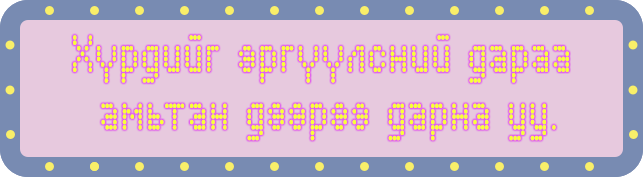
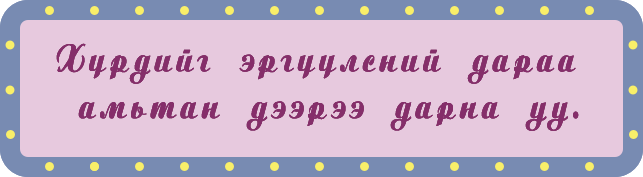
Add files via upload

Changed region(s): [[0.0622, 0.1695, 0.902, 0.4802], [0.1244, 0.565, 0.902, 0.8192]]

diff --git a/smoke.css b/smoke.css
@@ -1,18 +1,19 @@
 @import url('https://fonts.googleapis.com/css2?family=Lobster&display=swap');
 @import url('https://fonts.googleapis.com/css2?family=Comfortaa:wght@500&display=swap');
 @font-face {
-    font-family: 'mogul_rodchenko_inlineregular';
-	src: url(Mogul-Heinrich-Script.ttf) format ("truetype");
+    font-family: 'Mogul Heinrich Script';
+    src: url('MogulHeinrichScript.ttf') format('truetype');
     font-weight: normal;
     font-style: normal;
-
+    font-display: swap;
 }
+
 @font-face {
-    font-family: 'mogul_heinrinch_script';
-	src: url(Mogul-Rodchenko.ttf) format("truetype");
+    font-family: 'Mogul Rodchenko Inline';
+    src: url('MogulRodchenkoInline.ttf') format('truetype');
     font-weight: normal;
     font-style: normal;
-
+    font-display: swap;
 }
 
 html,body{
@@ -52,10 +53,9 @@ h1
 	width: 100%;
 	text-align: center;
 	color: #ddd;
-	font-size: 5em; 
-	font-family: 'mogul_rodchenko_inlineregular';
+	font-size: 6em; 
+	font-family: 'Mogul Rodchenko Inline';
 	letter-spacing: 0.2em;
-	text-shadow: 0 0 5px #fffb14d5, 0 0 12px #ffffff;
 
 }
 

diff --git a/stylesheet.css b/stylesheet.css
@@ -1,17 +1,18 @@
 @import url('https://fonts.googleapis.com/css2?family=Comfortaa:wght@500&display=swap');
 @font-face {
-    font-family: 'mogul_heinrinch_script';
-	src: url(Mogul-Heinrich-Script.ttf) format ("truetype");
+    font-family: 'Mogul Heinrich Script';
+    src: url('MogulHeinrichScript.ttf') format('truetype');
     font-weight: normal;
     font-style: normal;
-
+    font-display: swap;
 }
+
 @font-face {
-    font-family: 'mogul_rodchenko_inlineregular' ;
-	src: url(Mogul-Rodchenko.ttf) format("truetype");
+    font-family: 'Mogul Rodchenko Inline';
+    src: url('MogulRodchenkoInline.ttf') format('truetype');
     font-weight: normal;
     font-style: normal;
-
+    font-display: swap;
 }
 body {
 	/*background-color: #FFDAB9;	*/
@@ -1287,12 +1288,10 @@ audio {
 	display: none;
 }
 .message p {
-	font-family: 'mogul_heinrinch_script';
+	font-family: 'Mogul Heinrich Script';
 	font-size: 30px;
-	text-transform: uppercase;
 	color: #ffffff;
 	display: none;
-	font-weight: bold;
 }
 
 .btn-primary {

diff --git a/style.css b/style.css
@@ -50,7 +50,8 @@ canvas#canvas {
 }
 .giftbox:after {
   position: absolute;
-  color: #e5e5e5;
+  color: #000000;
+  font-weight: bold;
   text-shadow: 4px 4px 0 rgba(0, 99, 148, 0.4);
   width: 100%;
   content: "Эхлээд намайг дар!";
